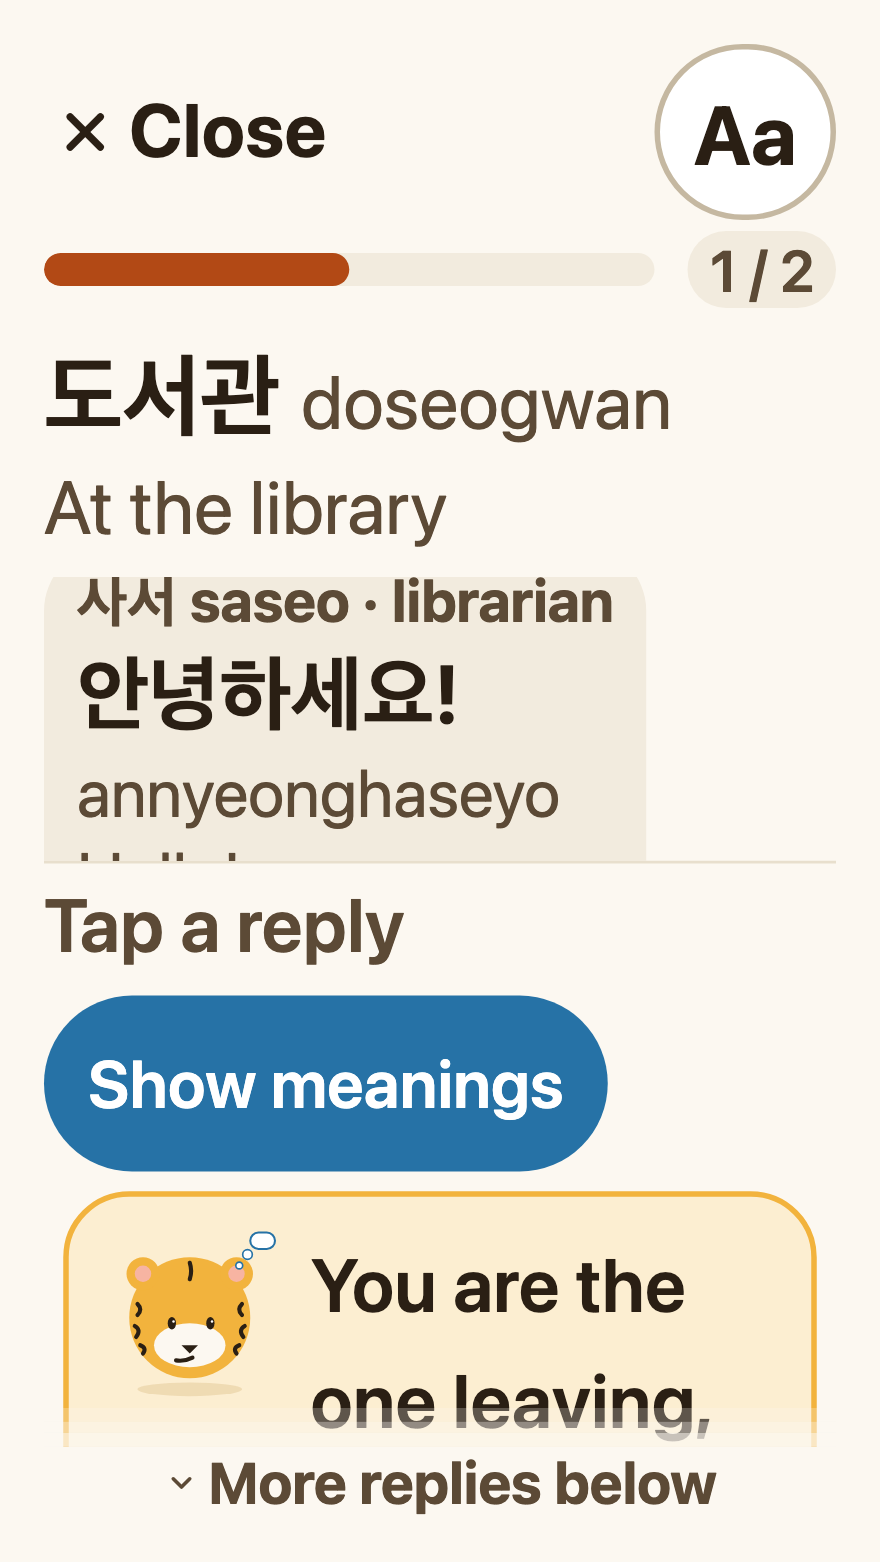
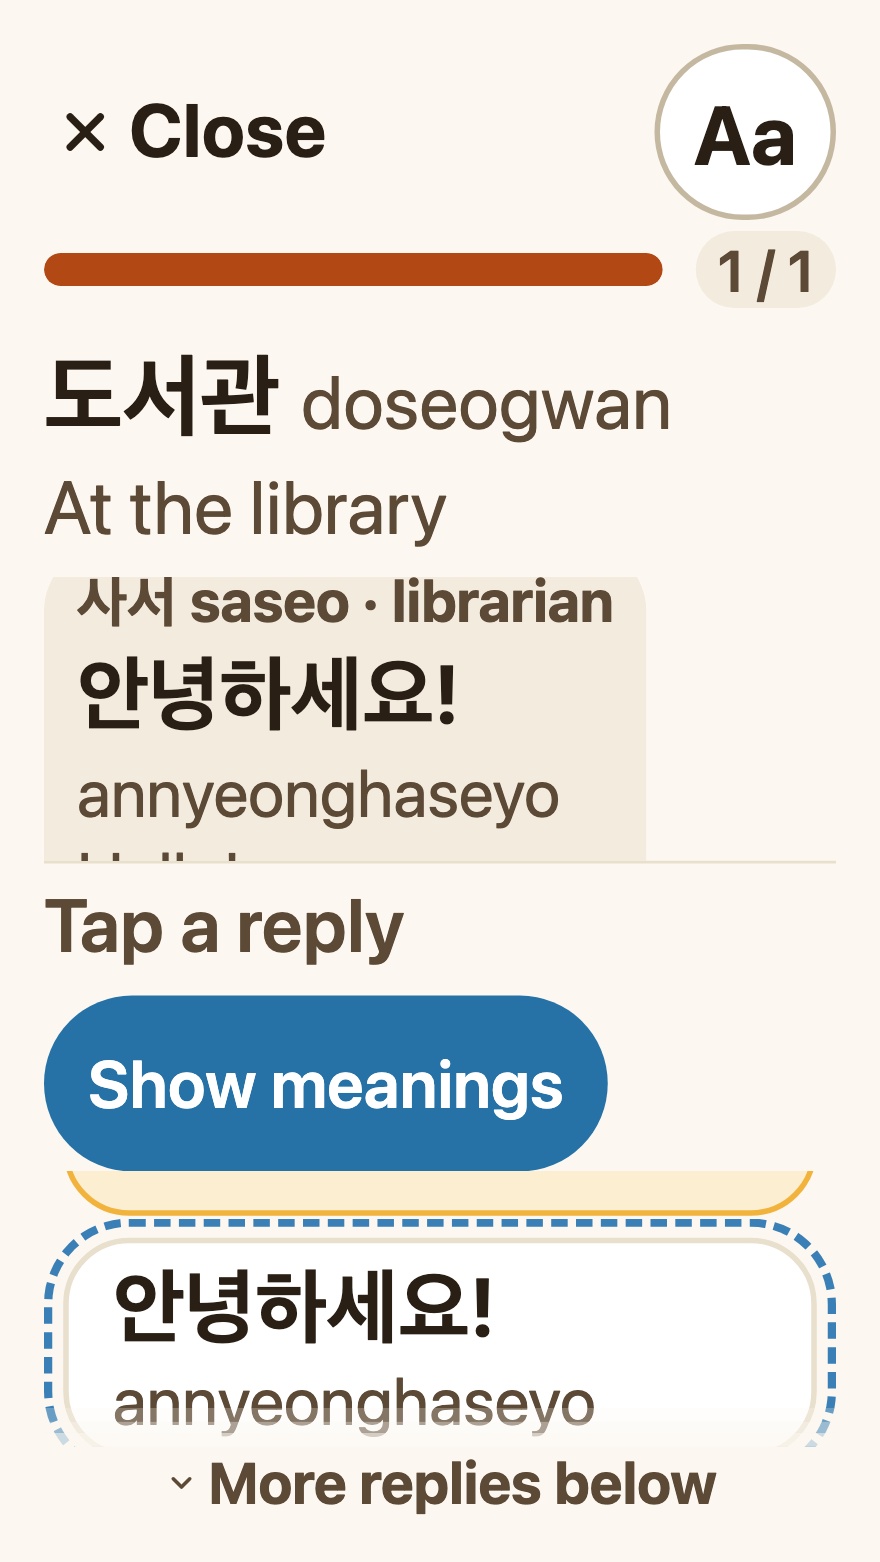
fix(mobile): board games' result lines name what they say (F-A11Y-001 AF-4c review)
Syllable Build's miss on the No final tile is named (No final letter) instead of an empty item; Hidden Heritage's and Match Shape's look-here lines name the ringed item by the words its own name uses (the meaning; the sound, with a pair tile's letter name); Role Play adds the look-here line only to the miss that turns the ring on; a found Match Shape pair tile no longer says the state twice. The 320 Largest Role Play look-here shot shows the ring; design spec follow-up F8.

Changed region(s): [[0.0307, 0.7375, 0.9511, 0.9219], [0.3682, 0.1536, 0.767, 0.1844], [0.7977, 0.1536, 0.9205, 0.2151]]

diff --git a/apps/mobile/src/screens/minigames/__tests__/answer-feedback-boards.test.tsx b/apps/mobile/src/screens/minigames/__tests__/answer-feedback-boards.test.tsx
@@ -248,7 +248,7 @@ describe('Hidden Heritage answers (test 16, OD-AF7)', () => {
     await tap(r, spot(a!));
     expect(announced(r)).toEqual([line({ kind: 'missHint', item: meaning(a!), hint: m.learner.hiddenHeritage.again })]);
     await tap(r, spot(b!));
-    const lookHere = line({ kind: 'missHint', item: meaning(b!), hint: lookHereLine(m.a11y, thing(asked).word.romanization) });
+    const lookHere = line({ kind: 'missHint', item: meaning(b!), hint: lookHereLine(m.a11y, meaning(asked)) });
     expect(announced(r)).toEqual([lookHere]);
     await tap(r, spot(asked));
     const right = line({ kind: 'right', item: answerItem(m.a11y, thing(asked).word.romanization, thing(asked).word.en) });
@@ -380,6 +380,22 @@ describe('Syllable Build answers (test 16)', () => {
     expect(liveRegions(r)).toEqual(['answer-announcer']);
   });
 
+  it('a miss on the No final tile is named ("No final letter"), never left empty, for both the plain miss and the look-here miss', async () => {
+    const plain = await board();
+    await tap(plain, tile('first:ㅂ'));
+    await tap(plain, tile('vowel:ㅏ'));
+    await tap(plain, tile('final:none'));
+    expect(announced(plain)).toEqual([line({ kind: 'missListen', item: m.a11y.minigame.syllableBuild.noFinal })]);
+    expect(announced(plain)[0]).not.toMatch(/: \./);
+    // The second miss on the final zone (another final first, then No final) rings the right tile, and names No final.
+    const ringed = await board();
+    await tap(ringed, tile('first:ㅂ'));
+    await tap(ringed, tile('vowel:ㅏ'));
+    await tap(ringed, tile('final:ㅇ'));
+    await tap(ringed, tile('final:none'));
+    expect(announced(ringed)).toEqual([line({ kind: 'missHint', item: m.a11y.minigame.syllableBuild.noFinal, hint: m.learner.minigame.syllableBuild.lookHere })]);
+  });
+
   it('the miss that turns look-here on rings the right tile with the dashed ring, outside the tile; a plain miss draws none', async () => {
     const r = await board();
     await build(r, 'ㅓ');
@@ -479,7 +495,7 @@ describe('Match Shape answers (test 16)', () => {
     expect(disabled(r, tileId(1))).toBe(false);
     await tap(r, tileId(0));
     expect(marks(host(r, `match-shape-mark-${0}`))).toEqual(['check']);
-    expect(String(pressable(r, tileId(0)).props['aria-label'])).toBe('Right answer: ㅂ, letter bieup, b or p, found');
+    expect(String(pressable(r, tileId(0)).props['aria-label'])).toBe('ㅂ, letter bieup, b or p, found');
     expect(disabled(r, tileId(0))).toBe(false);
   });
 
@@ -493,7 +509,7 @@ describe('Match Shape answers (test 16)', () => {
     expect(bubbleLive(r)).toEqual([false]);
     expect(announced(r).join(' ')).not.toMatch(HANGUL);
     await tap(r, tileId(2));
-    expect(announced(r)).toEqual([line({ kind: 'missHint', item: 'p', hint: `${missLine} ${lookHereLine(m.a11y, 'b or p')}` })]);
+    expect(announced(r)).toEqual([line({ kind: 'missHint', item: 'p', hint: `${missLine} ${lookHereLine(m.a11y, 'b or p, letter bieup')}` })]);
     expect(sr.queued).toHaveLength(3);
     for (const said of sr.queued) expect(said).not.toMatch(HANGUL);
     expect(liveRegions(r)).toEqual(['answer-announcer']);
@@ -564,10 +580,13 @@ describe('Match Shape answers (test 16)', () => {
       expect(marks(host(r, 'match-shape-mark-jamo:giyeok'))).toEqual(['replay']);
       expect(String(pressable(r, origin('giyeok')).props['aria-label'])).toBe('Not this one: ㄱ, g or k');
       expect(announced(r)).toEqual([line({ kind: 'missHint', item: 'g or k', hint: m.learner.minigame.matchShape.missOrigin })]);
+      // The second miss rings the right tile and adds the look-here line, naming it by its sound (its name is "ㄴ, n").
+      await tap(r, origin('mieum'));
+      expect(announced(r)).toEqual([line({ kind: 'missHint', item: 'm', hint: `${m.learner.minigame.matchShape.missOrigin} ${lookHereLine(m.a11y, 'n')}` })]);
       await tap(r, origin('nieun'));
       expect(marks(host(r, 'match-shape-mark-jamo:nieun'))).toEqual(['check']);
       expect(announced(r)).toEqual([line({ kind: 'right', item: 'n' })]);
-      expect(sr.queued).toHaveLength(2);
+      expect(sr.queued).toHaveLength(3);
       expect(has(r, 'match-shape-continue')).toBe(true);
     });
 
@@ -707,6 +726,7 @@ describe('Role Play answers (test 16)', () => {
           { id: 'hello', text: { ko: '안녕하세요!', romanization: 'annyeonghaseyo', en: 'Hello!' }, kind: 'natural', next: 't2' },
           { id: 'meal', text: { ko: '잘 먹겠습니다!', romanization: 'jal meokgetseumnida', en: 'I will eat well.' }, kind: 'lessNatural', whyEn: 'That one is for a meal. Try {ko:안녕하세요}.' },
           { id: 'bye', text: { ko: '안녕히 가세요!', romanization: 'annyeonghi gaseyo', en: 'Goodbye!' }, kind: 'lessNatural', whyEn: 'That one is for leaving.' },
+          { id: 'late', text: { ko: '또 만나요!', romanization: 'tto mannayo', en: 'See you again!' }, kind: 'lessNatural', whyEn: 'That one is for saying goodbye.' },
         ],
       },
       {
@@ -763,6 +783,9 @@ describe('Role Play answers (test 16)', () => {
     expect(borderStyleOf(r, 'role-play-ring')).toBe('dashed');
     expect(String(pressable(r, reply('hello')).props['aria-label'])).toMatch(/^Look here: /);
     expect(announced(r)).toEqual([line({ kind: 'missHint', item: 'annyeonghi gaseyo', hint: `That one is for leaving. ${lookHereLine(m.a11y, 'annyeonghaseyo')}` })]);
+    // The third miss does not say it again: the look-here line comes only with the miss that turns the ring on.
+    await tap(r, reply('late'));
+    expect(announced(r)).toEqual([line({ kind: 'missHint', item: 'tto mannayo', hint: 'That one is for saying goodbye.' })]);
   });
 
   it('reader off: the partner answers after at least the 1000 ms floor (it was 900) and the reply', async () => {

diff --git a/apps/mobile/src/screens/minigames/MatchShapeBoard.tsx b/apps/mobile/src/screens/minigames/MatchShapeBoard.tsx
@@ -260,7 +260,10 @@ export function MatchShapeBoard({ round, sources = [], onFirst, onSolved, source
         const hint = round.shape === 'pair' ? [words.missPair, spokenParts(koTokenParts(round.diffNoteEn))].filter((x) => x !== '').join(' ') : words.missOrigin;
         // The miss that turns the look-here ring on adds the look-here line, naming what is ringed (§3.2).
         const ringed = out.state.status === 'asking' && out.state.ring && !before.ring;
-        const line = ringed ? `${hint} ${lookHereLine(texts, targetSound)}` : hint;
+        // The ringed copy is named by the words its own name uses, its Hangul swapped for its sound: a pair tile is "letter bieup"
+        // after its letter, an origin tile is its sound alone.
+        const ringedName = round.shape === 'pair' ? texts.minigame.matchShape.pairTile(targetSound, target.name) : targetSound;
+        const line = ringed ? `${hint} ${lookHereLine(texts, ringedName)}` : hint;
         afterMiss({ readerOn: speak.readerOn, announce: () => speak.announce({ kind: 'missHint', item: tapped(), hint: line }) });
       }
     },
@@ -278,8 +281,9 @@ export function MatchShapeBoard({ round, sources = [], onFirst, onSolved, source
   const found = state.status === 'found';
   const line = shapeHoyaLine(state);
   /** A tile's name with its state first (§3.2): "Right answer: …", "Not this one: …", "Look here: …". */
-  const named = (look: ShapeTileLook, base: string): string =>
-    answerOptionLabel(look === 'found' ? 'correct' : look === 'marked' ? 'wrong' : look === 'ring' ? 'hint' : 'idle', base, m.a11y.minigame.option);
+  const named = (look: ShapeTileLook, base: string, saysFound = false): string =>
+    // A found pair tile's own name already ends "..., found": the state is not said twice.
+    answerOptionLabel(look === 'found' ? (saysFound ? 'idle' : 'correct') : look === 'marked' ? 'wrong' : look === 'ring' ? 'hint' : 'idle', base, m.a11y.minigame.option);
   /** The tile's decorations: the disc straddling its corner (`check` found, `replay` missed) and the look-here ring. */
   const decor = (look: ShapeTileLook, tid: string | number): ReactElement | null =>
     look === 'found' || look === 'marked' ? (
@@ -325,7 +329,7 @@ export function MatchShapeBoard({ round, sources = [], onFirst, onSolved, source
                 <TapTarget
                   key={t.index}
                   testID={`${testID}-tile-${t.index}`}
-                  accessibilityLabel={named(t.look, t.accessibilityLabel)}
+                  accessibilityLabel={named(t.look, t.accessibilityLabel, true)}
                   accessibilityState={{ selected: t.look === 'found' }}
                   // An answered tile is locked: inactive, still focusable, never disabled (§3.1).
                   inactive={off}

diff --git a/apps/mobile/src/screens/minigames/SyllableBuildBoard.tsx b/apps/mobile/src/screens/minigames/SyllableBuildBoard.tsx
@@ -38,7 +38,7 @@ import { useSoundPacing } from '../../components/use-sound-pacing';
 import { useMessages } from '../../i18n/use-messages';
 import { afterMiss, afterRightAnswer, answerItem, answerOptionLabel, lookHereLine } from '../../logic/answer-feedback';
 import { shouldAutoReplay } from '../../logic/audio/prompt-view';
-import { hoyaLine, startBuild, stepBuild, wantedLetter, type BuildEffect, type BuildEvent, type BuildState } from '../../logic/syllable-build/flow';
+import { hoyaLine, NO_FINAL, startBuild, stepBuild, wantedLetter, type BuildEffect, type BuildEvent, type BuildState } from '../../logic/syllable-build/flow';
 import { letterName } from '../../logic/syllable-build/letters';
 import { partsOf } from '../../logic/syllable-build/pool';
 import type { TileRows } from '../../logic/syllable-build/tiles';
@@ -267,7 +267,9 @@ export function SyllableBuildBoard({ target, tiles, fixed, onFirst, onSolved, on
       if (missed) {
         // The letter of the first zone that did not fit; the miss that turns the look-here ring on carries its line (§3.2).
         const zone = (['first', 'vowel', 'final'] as const).find((z) => out.state.marked.includes(z));
-        const item = zone === undefined ? '' : letterName(out.state.zones[zone] ?? '');
+        const tried = zone === undefined ? null : out.state.zones[zone];
+        // No final is a tile with no letter: it is named, never left empty ("Not this one: . Listen again.").
+        const item = tried === null || tried === undefined ? '' : tried === NO_FINAL ? texts.minigame.syllableBuild.noFinal : letterName(tried);
         const ringed = out.state.ring !== null && before.ring === null;
         afterMiss({
           readerOn: speak.readerOn,

diff --git a/apps/mobile/src/screens/minigames/role-play/RolePlayGame.tsx b/apps/mobile/src/screens/minigames/role-play/RolePlayGame.tsx
@@ -205,7 +205,8 @@ function Chat({ scene, host }: { scene: RolePlayScene; host: MinigameHost }): Re
             const turn = turnOf(scene, next);
             const tried = turn?.replies.find((r) => r.id === effect.reply);
             const parts = whyParts(scene, next);
-            const ring = lookHereOf(scene, next);
+            // The look-here line only when this miss turns the ring on (the second less natural reply of the turn).
+            const ring = next.locked.length === 2 ? lookHereOf(scene, next) : null;
             const natural = ring === null ? undefined : turn?.replies.find((r) => r.id === ring);
             const why = parts ? spokenParts(parts) : '';
             const hint = natural ? [why, lookHereLine(m.a11y, natural.text.romanization)].filter((x) => x !== '').join(' ') : why;

diff --git a/apps/mobile/src/screens/minigames/__tests__/MatchShapeGame.test.tsx b/apps/mobile/src/screens/minigames/__tests__/MatchShapeGame.test.tsx
@@ -140,7 +140,7 @@ describe('a pair round (tap every copy among look-alikes)', () => {
     expect(names).toEqual(['ㅂ, letter bieup', 'ㅍ, letter pieup', 'ㅍ, letter pieup', 'ㅂ, letter bieup', 'ㅍ, letter pieup', 'ㅂ, letter bieup']);
     for (const i of [0, 3, 5]) await tapId(r.root, `match-shape-tile-${i}`);
     expect(h.answers.at(-1)).toEqual(['ms:pair:bieup', true, { itemId: 'ms:pair:bieup' }]);
-    expect(byTestId(r.root, 'match-shape-tile-0')[0]?.props['aria-label']).toBe('Right answer: ㅂ, letter bieup, b or p, found');
+    expect(byTestId(r.root, 'match-shape-tile-0')[0]?.props['aria-label']).toBe('ㅂ, letter bieup, b or p, found');
     await act(async () => {
       vi.advanceTimersByTime(RESULT_MARK_MIN_MS);
     });

diff --git a/apps/mobile/src/screens/minigames/HiddenHeritageGame.tsx b/apps/mobile/src/screens/minigames/HiddenHeritageGame.tsx
@@ -390,7 +390,7 @@ export function HiddenHeritageGame({ scope, scenes, host, onBack }: Props): Reac
           const item = tappedThing ? thingName(tappedThing.word) : '';
           const answer = asked === null ? undefined : thing(asked);
           const ringed = asked !== null && (out.state.misses[asked] ?? 0) >= HINT_AFTER_MISSES && (before.misses[asked] ?? 0) < HINT_AFTER_MISSES;
-          const hint = ringed && answer ? lookHereLine(texts, answer.word.romanization) : words.again;
+          const hint = ringed && answer ? lookHereLine(texts, thingName(answer.word)) : words.again;
           afterMiss({ readerOn: speak.readerOn, announce: () => speak.announce({ kind: 'missHint', item, hint }) });
         }
         return;

diff --git a/design/components/AnswerFeedback/spec.md b/design/components/AnswerFeedback/spec.md
@@ -346,6 +346,7 @@ native OS font scale multiplies every size alike (`text-size.ts:85`), so 200 % h
   give it D10's `border.shape` track and whole-row target.
 - **F4** Marks that grow with the text size (capped near 1.5x), once AF-1 has landed `MARK_MIN`.
 - **F7** Match Shape's pair grid gap (8) is under two look-here rings (14): widen it, or draw the ring at `spacing.xxs` on a grid.
+- **F8** With a reader on, after the board's own Next in the review hosts (Daily Review, Cell/Stage Checks, Block Sprint) no header node takes focus: §3.6 does not list these hosts; follow-up row.
 - **F6** Seen in AF-4b's shots (`shots/af-4b/pic-word-320-largest-*`), not changed there: Pic-Word Match's two columns are
   about 123 dp wide at 320 with the Largest text step, so a word card's text column (the Korean chip, 65 dp, beside the 24
   mark column and the row gap) is 10 dp short, and the `check` or `replay` mark overlaps the chip's edge (the check is half
